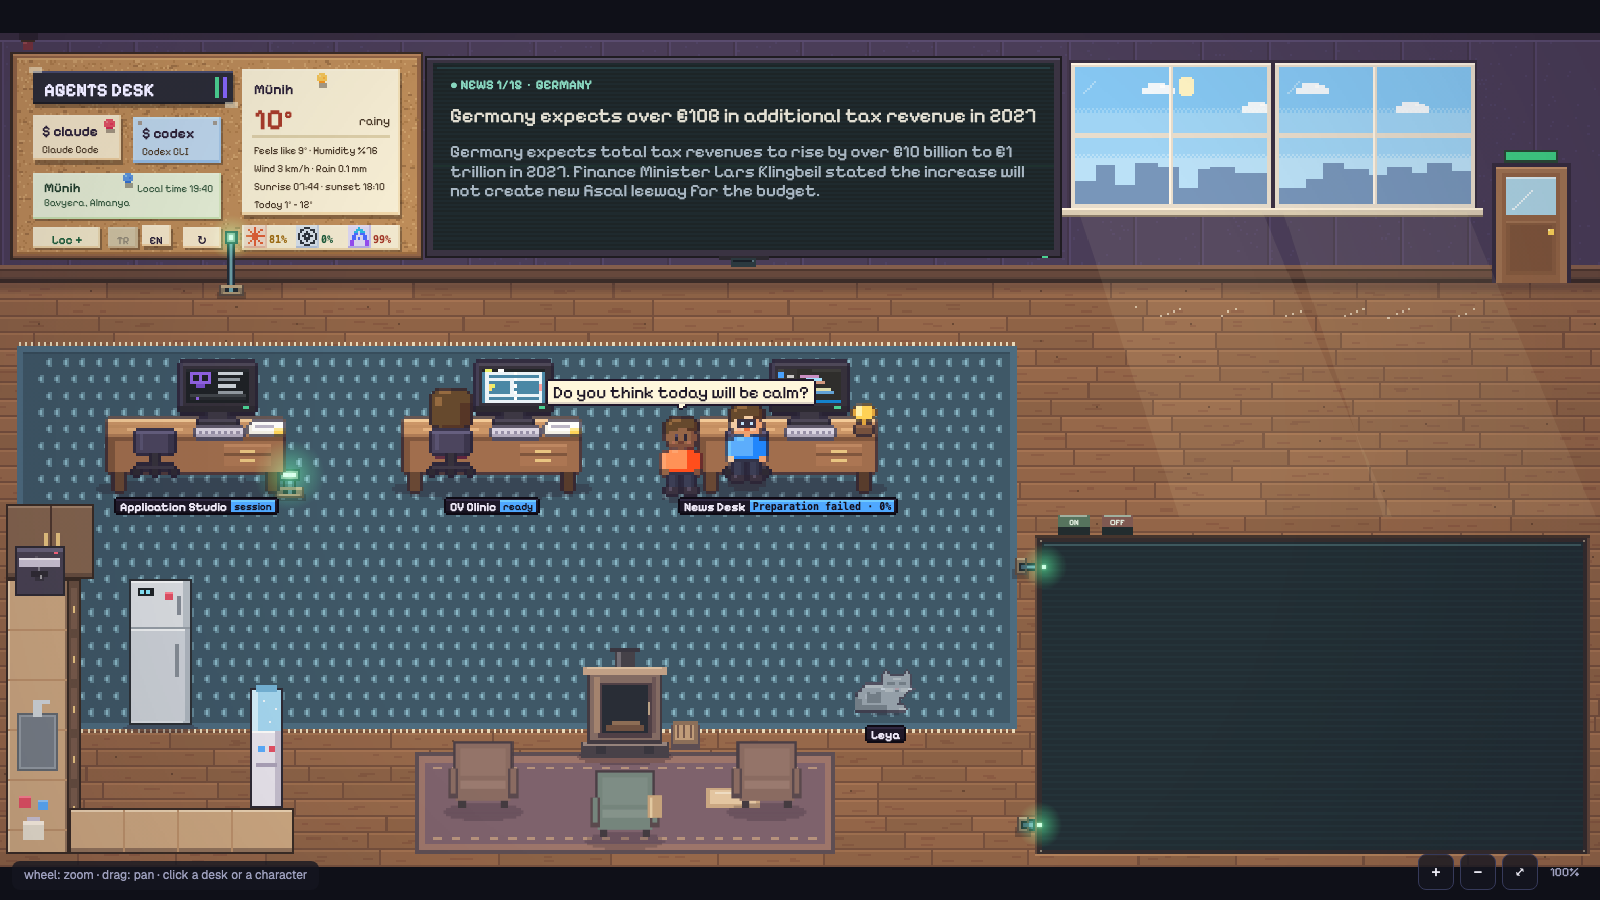
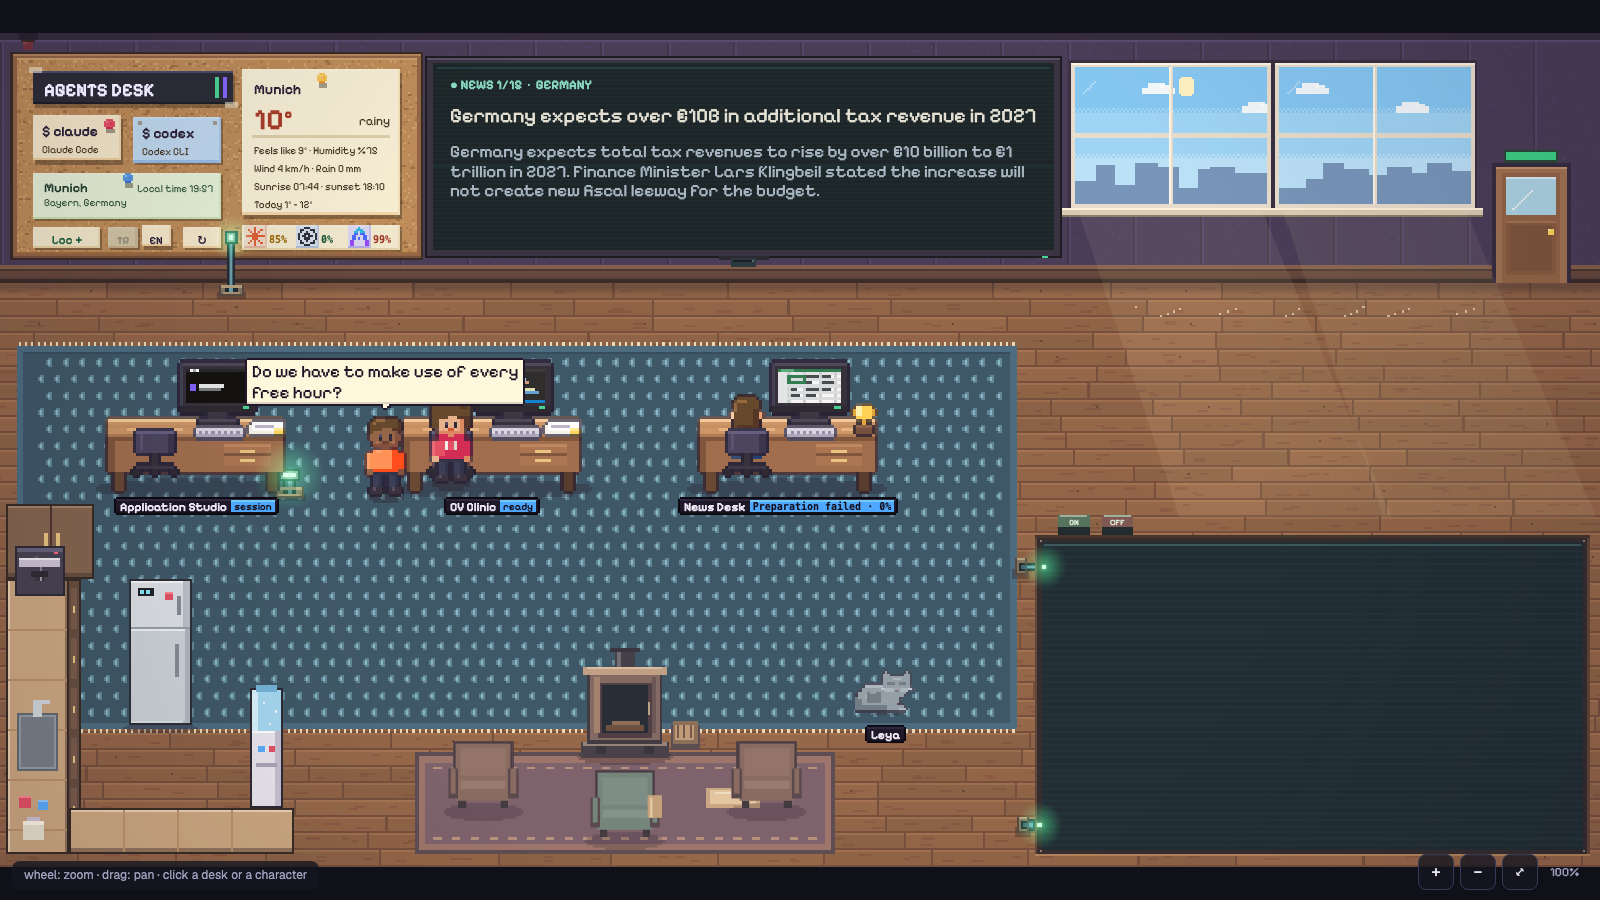
Localize weather place names to the UI language; retake screenshots in English

Changed region(s): [[0.0938, 0.3733, 0.5312, 0.56], [0.0312, 0.2178, 0.0625, 0.2489]]

diff --git a/server/briefing-mcp.js b/server/briefing-mcp.js
@@ -5,7 +5,7 @@ import { fileURLToPath } from 'node:url';
 import { createBriefing, TOPICS } from './briefing.js';
 import { NEWS_TAGS } from './news-taxonomy.js';
 import { articleUrl } from './briefing-article.js';
-export const BRIEFING_TOOL = { name: 'get_daily_briefing', description: 'Get dated public headlines, bounded article evidence, or optional city weather for office news.', inputSchema: { type: 'object', properties: { topic: { type: 'string', enum: ['technology','ai','germany','turkey','europe','science','culture','business'] }, topics: { type: 'array', maxItems: 5, items: { type: 'string', enum: ['technology','ai','germany','turkey','europe','science','culture','business'] } }, standing: { type: 'boolean' }, fresh: { type: 'boolean' }, articleUrls: { type: 'array', maxItems: 15, items: { type: 'string', maxLength: 300 } }, queries: {type:'array',maxItems:18,items:{type:'object',properties:{query:{type:'string',maxLength:100},role:{type:'string',maxLength:60},topic:{type:'string',enum:TOPICS},tags:{type:'array',maxItems:6,items:{type:'string',enum:NEWS_TAGS}}},required:['query','role'],additionalProperties:false}}, city: { type: 'string', maxLength: 80 }, latitude: { type: 'number', minimum: -90, maximum: 90 }, longitude: { type: 'number', minimum: -180, maximum: 180 } }, additionalProperties: false } };
+export const BRIEFING_TOOL = { name: 'get_daily_briefing', description: 'Get dated public headlines, bounded article evidence, or optional city weather for office news.', inputSchema: { type: 'object', properties: { topic: { type: 'string', enum: ['technology','ai','germany','turkey','europe','science','culture','business'] }, topics: { type: 'array', maxItems: 5, items: { type: 'string', enum: ['technology','ai','germany','turkey','europe','science','culture','business'] } }, standing: { type: 'boolean' }, lang: { type: 'string', enum: ['tr','en'] }, fresh: { type: 'boolean' }, articleUrls: { type: 'array', maxItems: 15, items: { type: 'string', maxLength: 300 } }, queries: {type:'array',maxItems:18,items:{type:'object',properties:{query:{type:'string',maxLength:100},role:{type:'string',maxLength:60},topic:{type:'string',enum:TOPICS},tags:{type:'array',maxItems:6,items:{type:'string',enum:NEWS_TAGS}}},required:['query','role'],additionalProperties:false}}, city: { type: 'string', maxLength: 80 }, latitude: { type: 'number', minimum: -90, maximum: 90 }, longitude: { type: 'number', minimum: -180, maximum: 180 } }, additionalProperties: false } };
 export function createBriefingMcp(briefing) {
   return async request => {
     if (!('id' in request)) return null;
@@ -20,8 +20,9 @@ export function createBriefingMcp(briefing) {
           args.articleUrls.forEach(articleUrl);
         }
         if ('fresh' in args && typeof args.fresh !== 'boolean') throw new Error('invalid-fresh');
+        if ('lang' in args && !['tr','en'].includes(args.lang)) throw new Error('invalid-lang');
         if ('latitude' in args && (!Number.isFinite(args.latitude) || !Number.isFinite(args.longitude) || Math.abs(args.latitude) > 90 || Math.abs(args.longitude) > 180)) throw new Error('invalid-location');
-        if (Object.keys(args).some(k => !['topic','topics','standing','fresh','city','latitude','longitude','queries','articleUrls'].includes(k))) throw new Error('invalid-arguments');
+        if (Object.keys(args).some(k => !['topic','topics','standing','fresh','city','latitude','longitude','queries','articleUrls','lang'].includes(k))) throw new Error('invalid-arguments');
         if ('queries' in args && (!Array.isArray(args.queries)||args.queries.length>18||args.queries.some(q=>!q||typeof q.query!=='string'||q.query.length>100||!/^[\p{L}\p{N} '\-]+$/u.test(q.query)||typeof q.role!=='string'||q.role.length>60||('topic' in q&&!TOPICS.includes(q.topic))||('tags' in q&&(!Array.isArray(q.tags)||q.tags.length>6||q.tags.some(t=>!NEWS_TAGS.includes(t))))))) throw new Error('invalid-queries');
         result = { content: [{ type: 'text', text: JSON.stringify(await briefing.get(args)) }] };
       } else return { jsonrpc: '2.0', id: request.id, error: { code: -32601, message: 'Unknown method or tool' } };

diff --git a/server/briefing.js b/server/briefing.js
@@ -96,7 +96,7 @@ export function createBriefing({ dataDir, fetcher = fetch, now = Date.now, readA
     pending.set(key, promise); return promise;
   }
   const hasLocation = (latitude, longitude) => Number.isFinite(latitude) && Number.isFinite(longitude) && Math.abs(latitude) <= 90 && Math.abs(longitude) <= 180;
-  return { async get({ topic, topics = [], city, latitude, longitude, queries = [], standing = false, fresh = false, articleUrls } = {}) {
+  return { async get({ topic, topics = [], city, lang, latitude, longitude, queries = [], standing = false, fresh = false, articleUrls } = {}) {
     if (articleUrls !== undefined) {
       if (!Array.isArray(articleUrls) || articleUrls.length > 15) throw new Error('invalid-articles');
       articleUrls.forEach(articleUrl);
@@ -139,7 +139,7 @@ export function createBriefing({ dataDir, fetcher = fetch, now = Date.now, readA
       return (await cached(key,fresh ? 0 : 60*60_000,async()=>parseSearchFeed(await download('https://www.bing.com/news/search?format=rss&qft=interval%3D%227%22&setlang=en-US&q='+encodeURIComponent(item.query),fetcher),undefined,now()))).map(s=>structureNews({...s,role:clean(item.role,60),query:item.query,topic:item.topic,tags:item.tags}));
     }));
     let weather = [];
-    if (hasLocation(latitude, longitude) || typeof city === 'string' && city.trim() && city.length <= 80) weather = await cached('weather3-' + Buffer.from(city || `${latitude},${longitude}`).toString('hex'), 60 * 60_000, async () => {
+    if (hasLocation(latitude, longitude) || typeof city === 'string' && city.trim() && city.length <= 80) weather = await cached('weather4-' + (lang === 'en' ? 'en-' : '') + Buffer.from(city || `${latitude},${longitude}`).toString('hex'), 60 * 60_000, async () => {
       const geo = city ? JSON.parse(await download('https://geocoding-api.open-meteo.com/v1/search?count=1&language=tr&name=' + encodeURIComponent(city), fetcher)) : { results: [{ latitude, longitude, name: 'Yakın çevreniz' }] };
       const place = geo.results?.[0];
       if (!place || !Number.isFinite(place.latitude) || !Number.isFinite(place.longitude)) return [];
@@ -147,7 +147,7 @@ export function createBriefing({ dataDir, fetcher = fetch, now = Date.now, readA
       let where = { city: clean(place.name, 60), region: clean(place.admin1, 60), country: clean(place.country, 60) };
       if (!city) {
         try {
-          const r = JSON.parse(await download(`https://api-bdc.io/data/reverse-geocode-client?latitude=${place.latitude}&longitude=${place.longitude}&localityLanguage=tr`, fetcher));
+          const r = JSON.parse(await download(`https://api-bdc.io/data/reverse-geocode-client?latitude=${place.latitude}&longitude=${place.longitude}&localityLanguage=${lang === 'en' ? 'en' : 'tr'}`, fetcher));
           where = { city: clean(r.city || r.locality, 60) || where.city, region: clean(r.principalSubdivision, 60), country: clean(r.countryName, 60) };
         } catch { /* generic name */ }
       }

diff --git a/test/briefing.test.js b/test/briefing.test.js
@@ -90,3 +90,12 @@ test('AI discovery retains real community rank and votes without reading discuss
   assert.ok(!urls.some(u => /999|user\//.test(u)));
   const count = urls.length; await b.get({ topics: ['ai'] }); assert.equal(urls.length, count);
 });
+
+test('weather place names follow the requested language and are cached per language', async () => {
+  const urls=[];
+  const fetcher=async url=>{urls.push(url); return new Response(url.includes('/forecast')?JSON.stringify({timezone:'Europe/Berlin',current:{temperature_2m:10,weather_code:61},daily:{}}):url.includes('api-bdc')?JSON.stringify(url.includes('localityLanguage=en')?{city:'Munich',principalSubdivision:'Bavaria',countryName:'Germany'}:{city:'Münih',principalSubdivision:'Bavyera',countryName:'Almanya'}):'<rss></rss>',{status:200,headers:{'content-type':'application/json'}});};
+  const b=createBriefing({dataDir:tmp(),now:()=>at,fetcher});
+  const place=r=>{const w=r.sources.find(s=>s.kind==='weather').weather;return [w.city,w.region,w.country];};
+  assert.deepEqual(place(await b.get({latitude:48.1,longitude:11.6,lang:'en'})),['Munich','Bavaria','Germany']);
+  assert.deepEqual(place(await b.get({latitude:48.1,longitude:11.6})),['Münih','Bavyera','Almanya']);
+});

diff --git a/server/server.js b/server/server.js
@@ -179,7 +179,7 @@ export function createDeskServer(deps = {}) {
         // current weather for the window glass; needs the user's location permission, shares nothing else
         const location = readLocation();
         if (!Number.isFinite(location?.latitude)) return send(res, 200, { configured: false, weather: null });
-        const result = await briefingOf(dataDir, { ...location }).catch(() => ({ sources: [] }));
+        const result = await briefingOf(dataDir, { ...location, lang: url.searchParams.get('lang') === 'en' ? 'en' : 'tr' }).catch(() => ({ sources: [] }));
         const weather = result.sources?.find((s) => s.kind === 'weather' && s.weather)?.weather ?? null;
         return send(res, 200, { configured: true, weather });
       }

diff --git a/office/public/js/app.js b/office/public/js/app.js
@@ -155,7 +155,7 @@
     $('zoomIn').setAttribute('aria-label', I.t('zoom.in')); $('zoomOut').setAttribute('aria-label', I.t('zoom.out')); $('zoomReset').setAttribute('aria-label', I.t('zoom.fit'));
     document.querySelector('.zoom').setAttribute('aria-label', I.t('zoom.group'));
   }
-  I.onChange(() => { applyStatic(); applyStatuses(); });
+  I.onChange(() => { applyStatic(); applyStatuses(); void updateWeather(); });
   applyStatic();
 
   // ---------- session continuity: a refresh resumes the same office ----------

diff --git a/office/public/js/news.js b/office/public/js/news.js
@@ -24,7 +24,7 @@
   // { configured, weather } with a Turkish description of the conditions
   async function weatherInfo() {
     try {
-      const r = await getJson('/api/weather');
+      const r = await getJson('/api/weather?lang=' + I.lang);
       return { configured: !!r.configured, weather: r.weather ?? null };
     } catch { return { configured: false, weather: null }; }
   }
